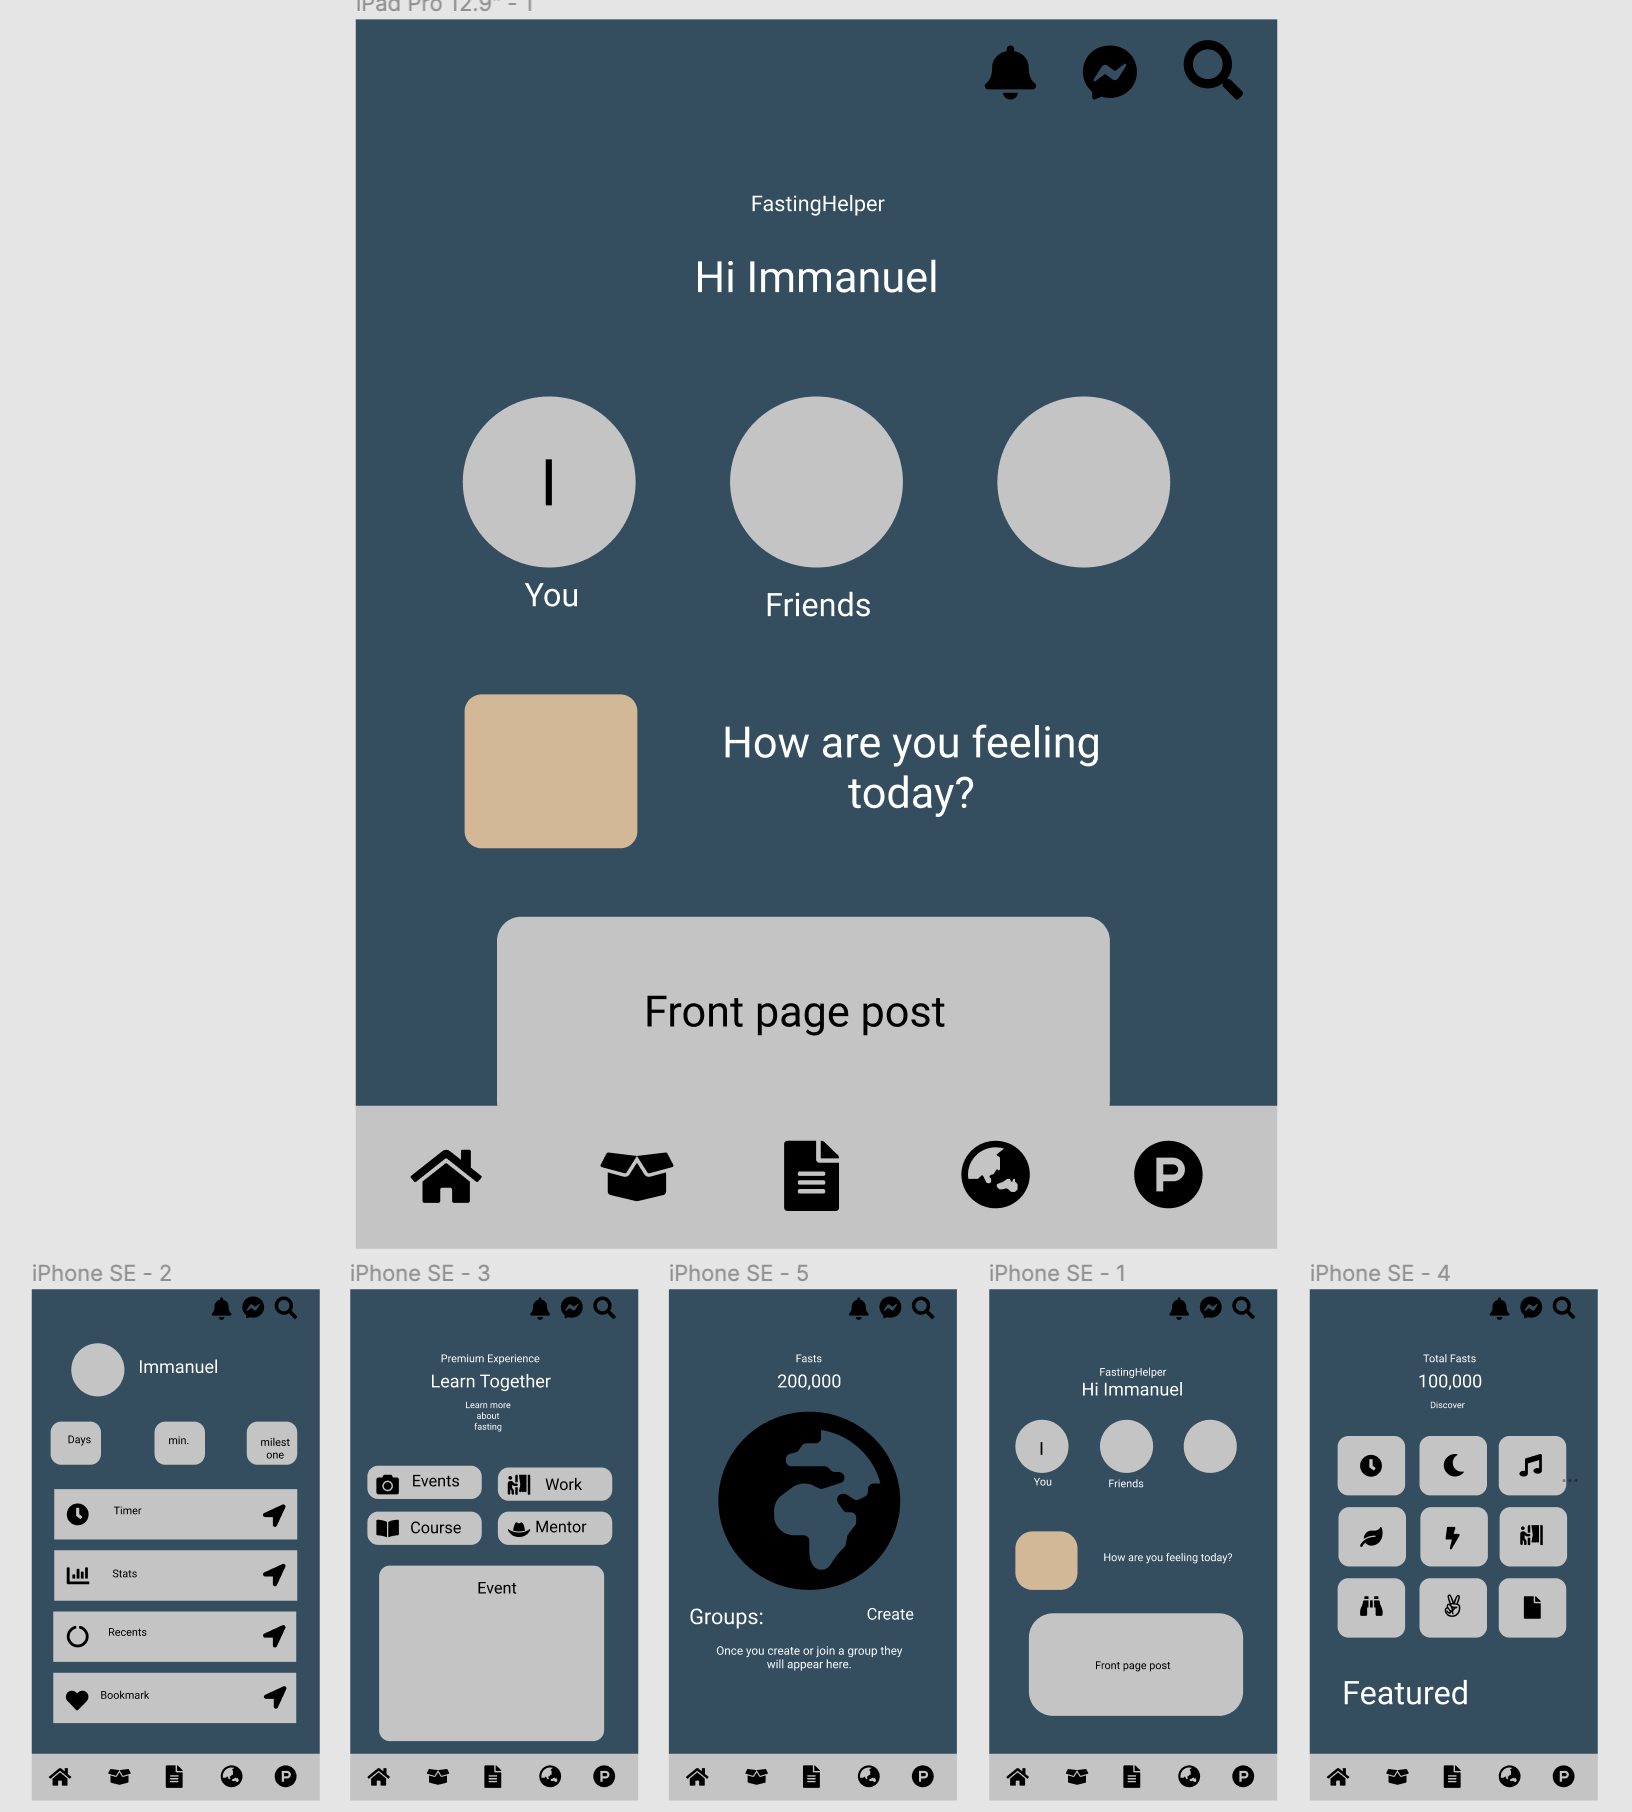
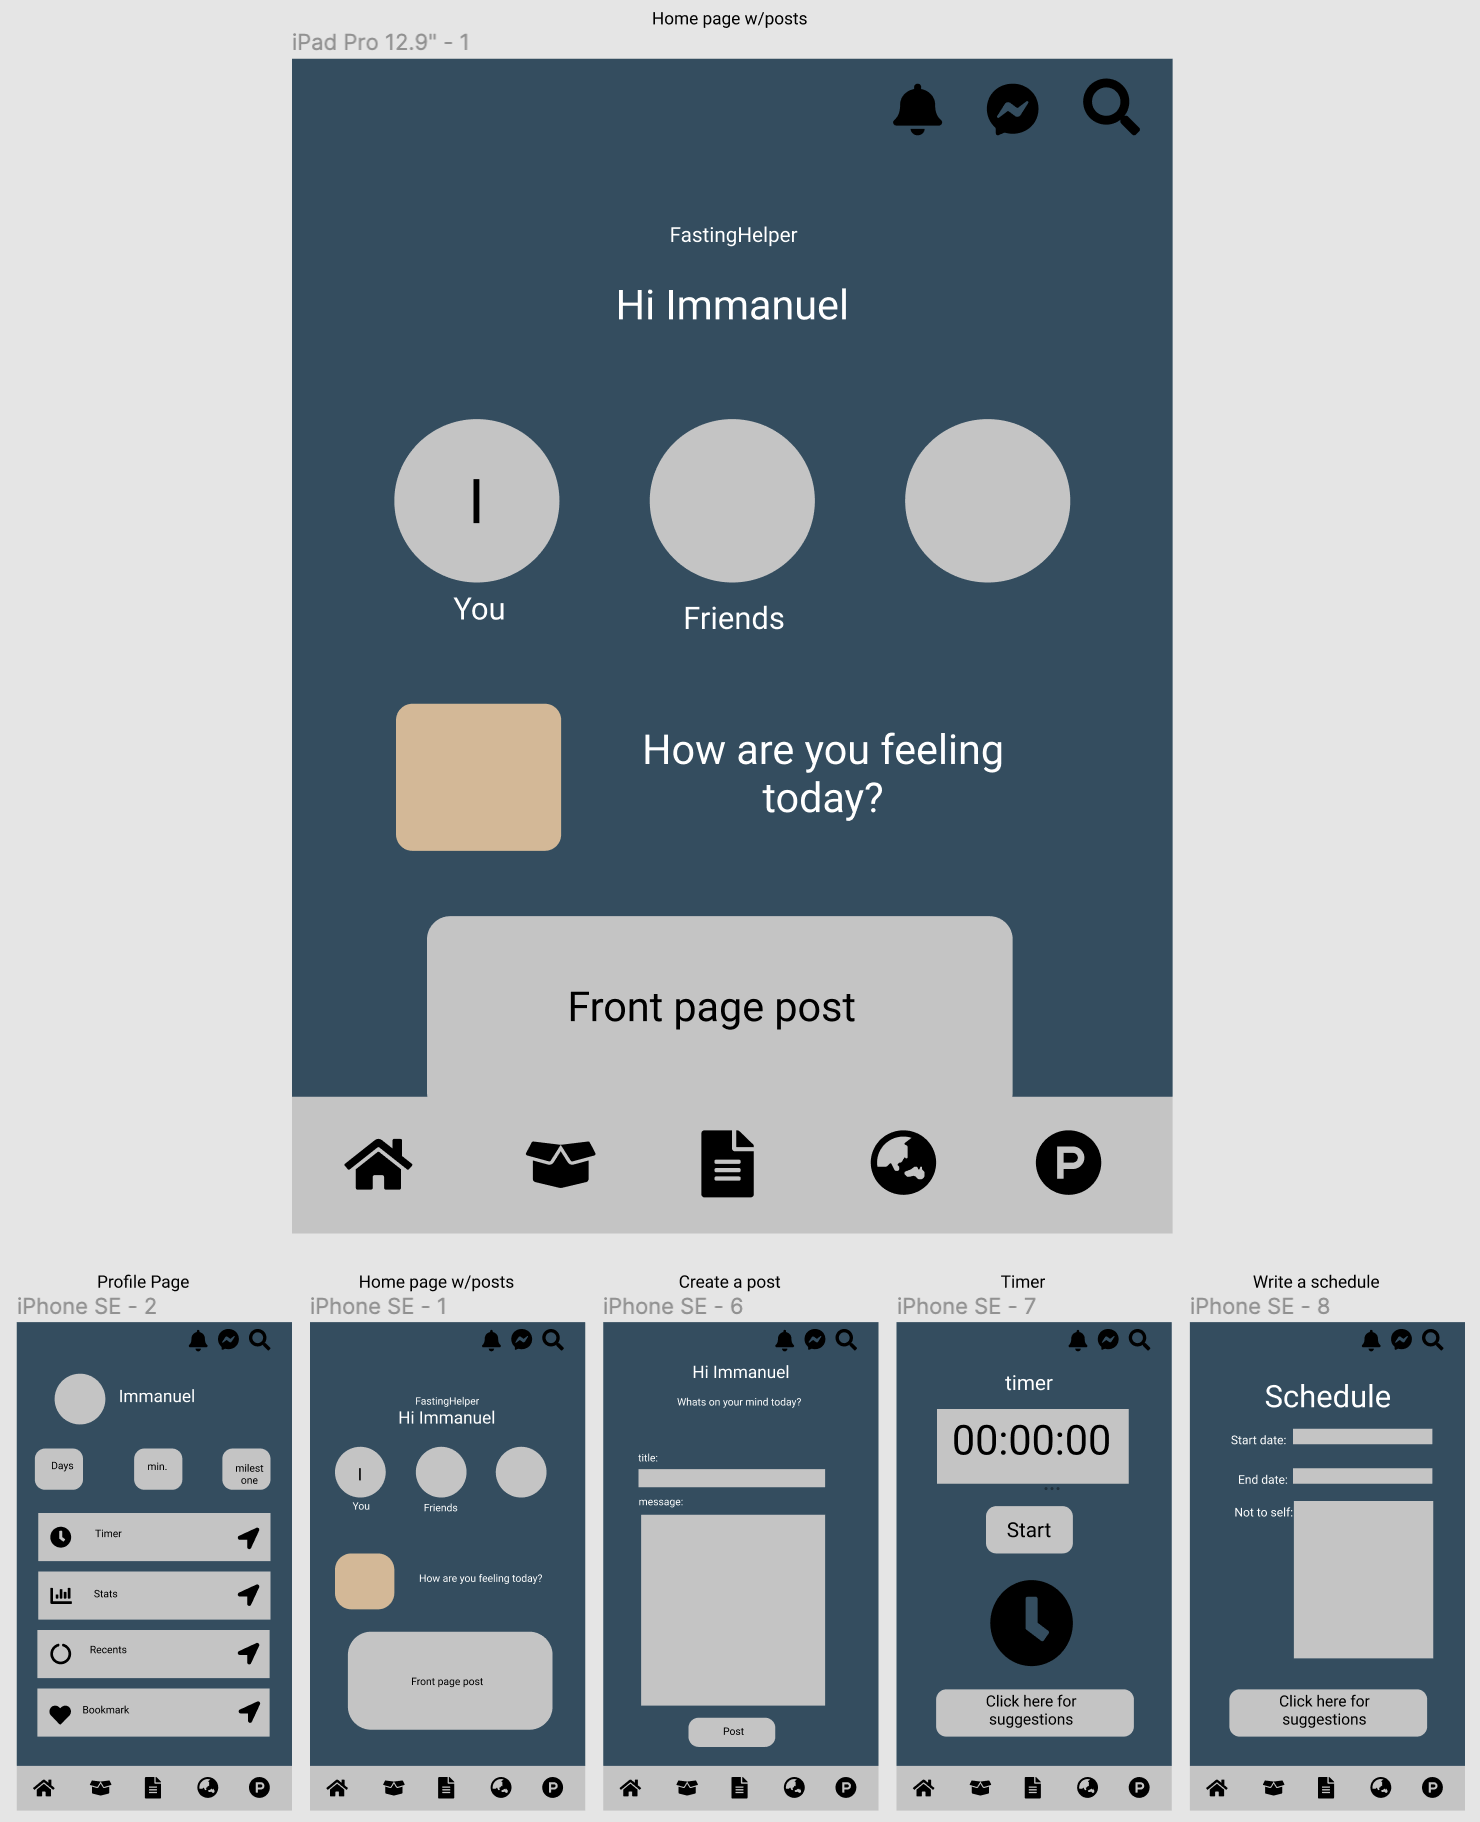
updated wireframe and erd

diff --git a/README.md b/README.md
@@ -25,12 +25,12 @@
 
 - Make a full CRUD app
 - Make full CRUD backend with Ruby on Rails
+- Users can sign up
+- Users can set timers for their fasting, front-end
 - Have timers for different fasting schedules
 - Allow users to post stories and have comments on them
-- Allow users to join groups and dm each other
-- Allow users to post events they may be hosting
-- Users can post informational guides or help
-- App tracks users progress and they can set goals for themselves
+- Homepage shows all the users posts
+- Make blank skeletons for the other post-mvp pages
 
 <br>
 
@@ -93,6 +93,10 @@
 
 - Adding more to the discover and learn page
 - Adding so people can do file upload for images
+- Allow users to join groups and dm each other
+- Allow users to post events they may be hosting
+- Users can post informational guides or help
+- App tracks users progress and they can set goals for themselves
 
 ---
 
